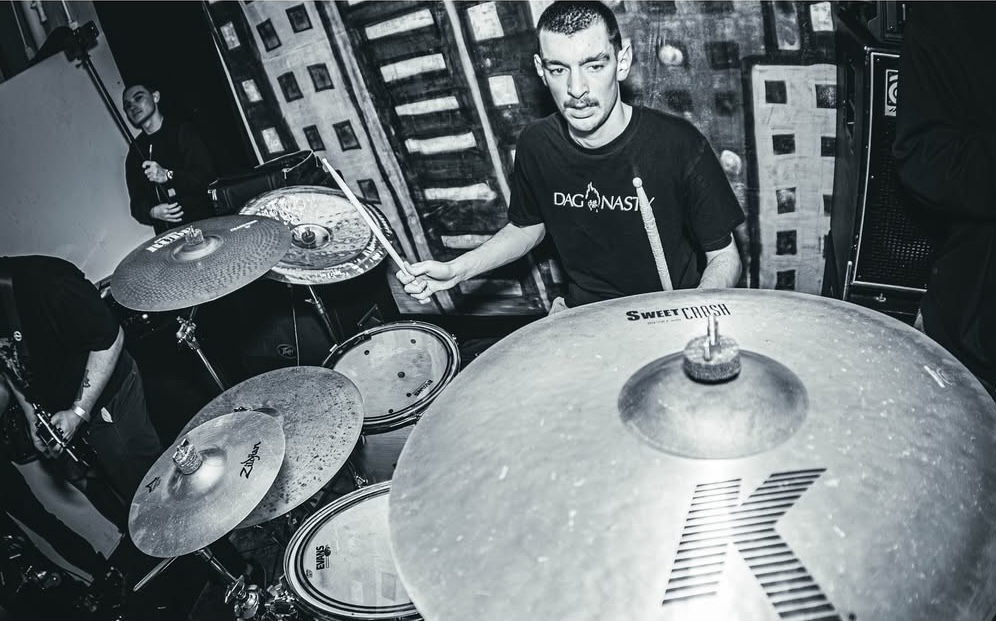
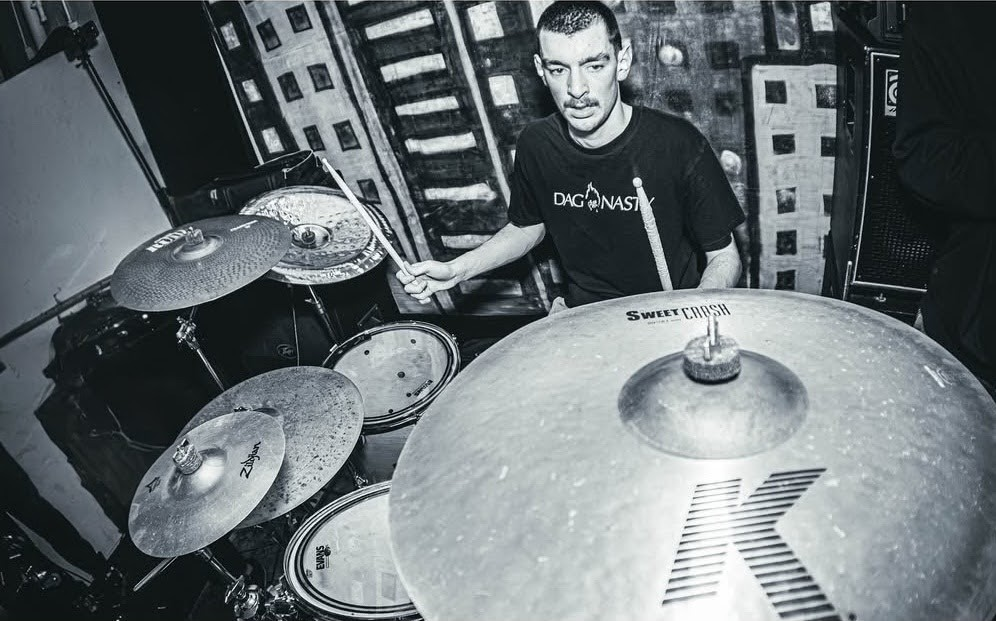
new studio shot

Changed region(s): [[0.0, 0.3977, 0.1556, 0.8567], [0.1245, 0.1224, 0.2179, 0.3977]]

diff --git a/pages/about.html b/pages/about.html
@@ -33,10 +33,15 @@ More comming soon...
     <img src="assets/img/studio_blur.png" alt="Recording at Sharkbite Studios" width=584 height=400 align="center">
     <figcaption>Recording at Sharkbite Studios with Zack Ohren, 2024</figcaption>
   </figure>
+</div>
+<div class="content-container about">
+  <figure>
+    <img src="assets/img/max_panda_02082025.jpg" alt="Recording at The Panda Studios" width=584 height=400 align="center">
+    <figcaption>Recording at The Panda Studios with Charles Toshio, 2025</figcaption>
+  </figure>
+</div>
 
 <!-- TODO: Artist statement here --> 
-
-</div>
 
 <style>
     a {
